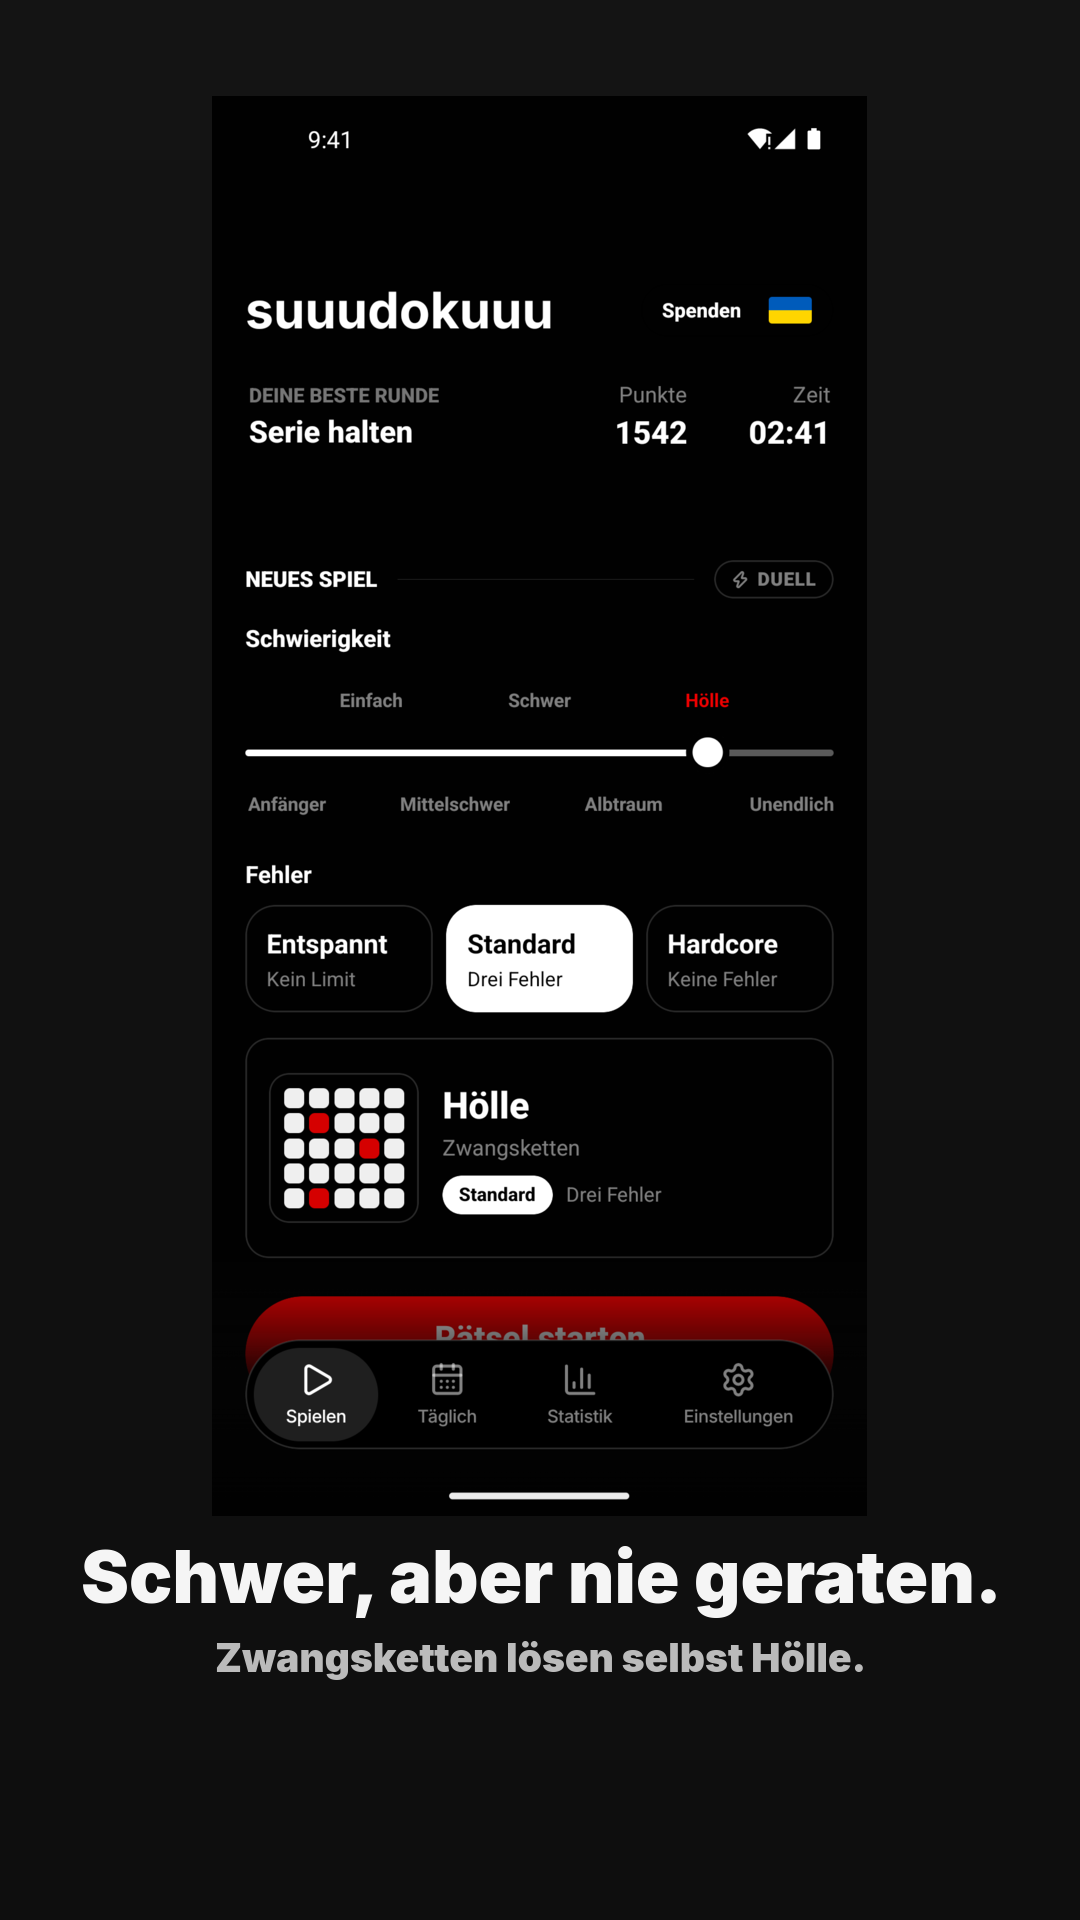
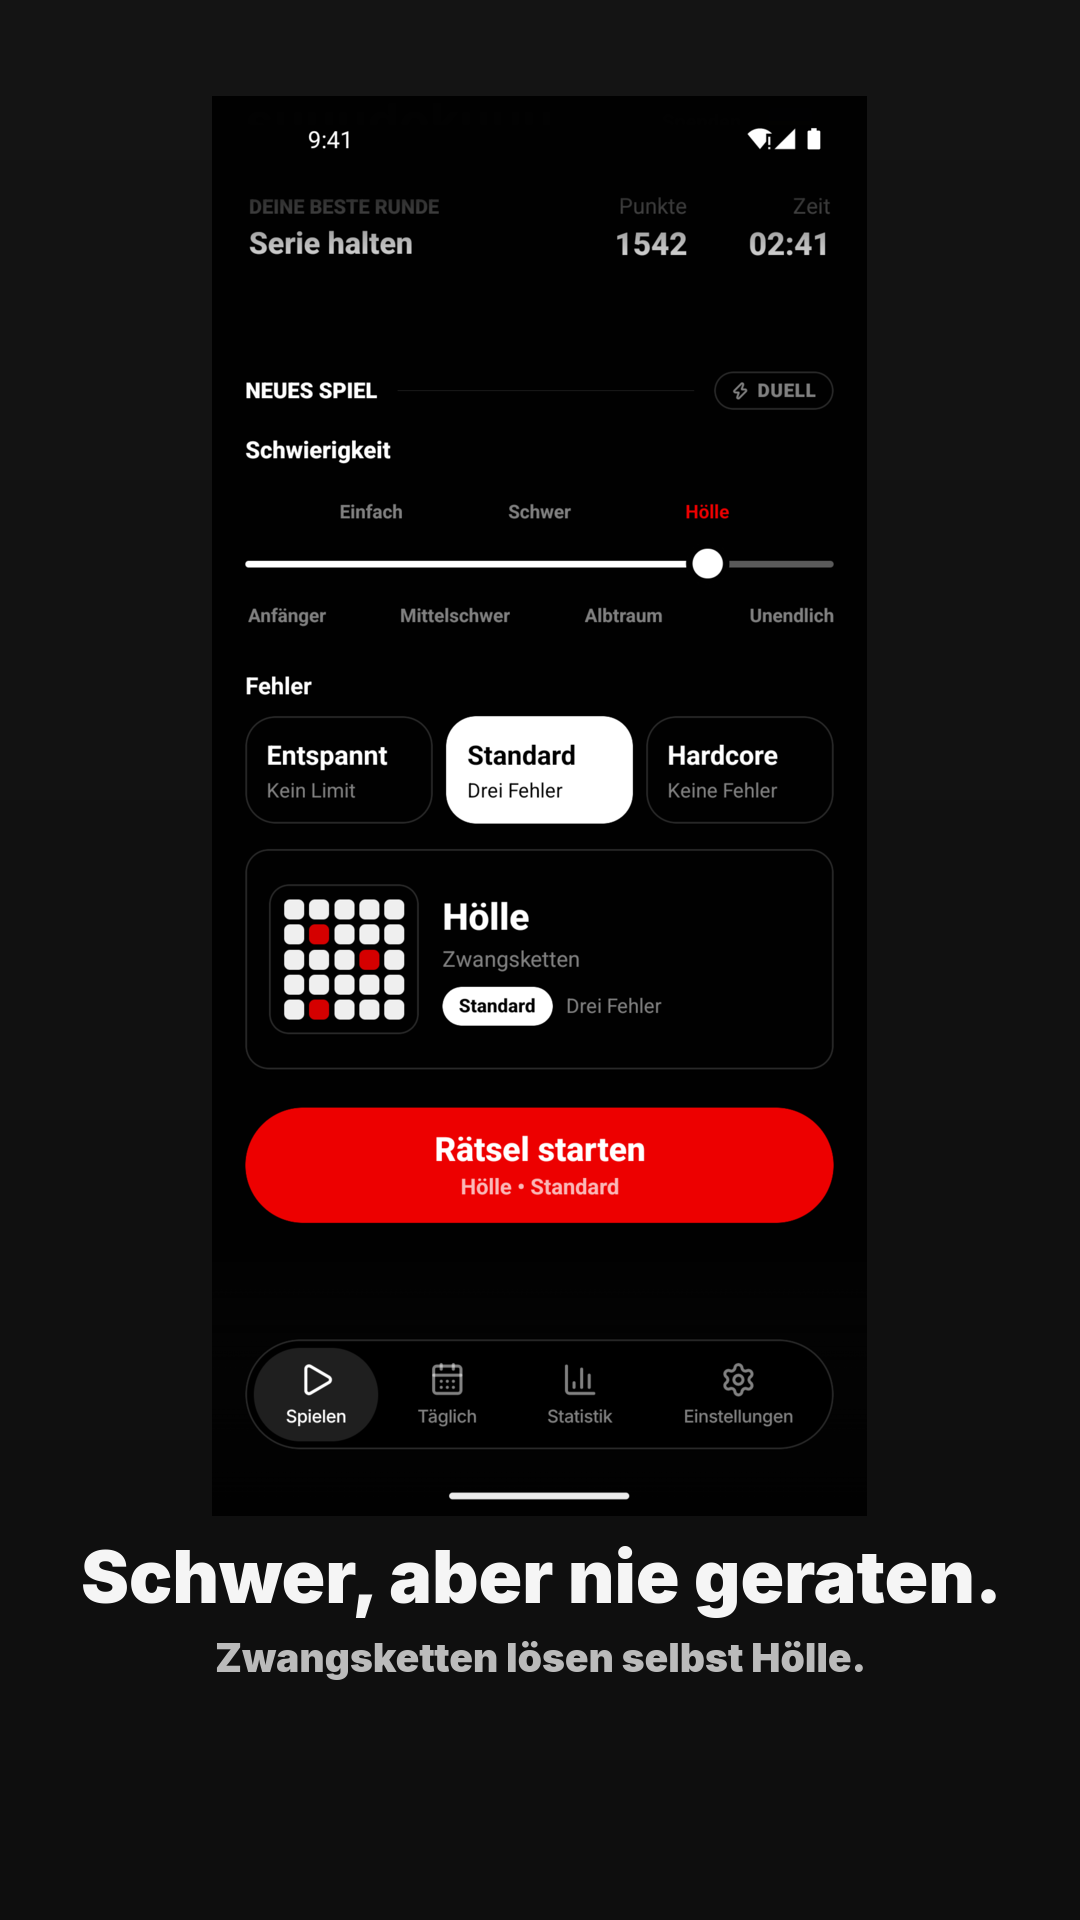
fix(app): keep Play Hell start buttons visible

Changed region(s): [[0.2139, 0.0938, 0.7944, 0.7188], [0.6722, 0.0938, 0.7639, 0.25], [0.5806, 0.0938, 0.6722, 0.25]]

diff --git a/tests/app-tests/docs/store-screenshot-capture.md b/tests/app-tests/docs/store-screenshot-capture.md
@@ -103,6 +103,11 @@ is exactly what step 2 above already does.
   `google_apis_playstore`, and `run-as` is refused on release builds). Set
   `wm size 1080x2340` and `wm density 440` for the 1080x1920 Play
   composition. Locale switching alone needs no root (API 33+).
+- **Android Hell needs a scrolled Home capture.** At the initial scroll
+  position, the floating tabs cover the Start puzzle button. After seeding
+  and launching the Hell scene for each locale, swipe Home upward until the
+  full button sits above the tabs, then save `02-hell.png` before composing.
+  The 2.20.0 Play set was captured this way on `emulator-5554`.
 - **Status bar:** launch arguments do not touch the system status bar, so the
   runner applies `simctl status_bar override` (9:41, full bars, 100%
   battery) and Android SystemUI demo mode. `--status-bar=real` restores the
